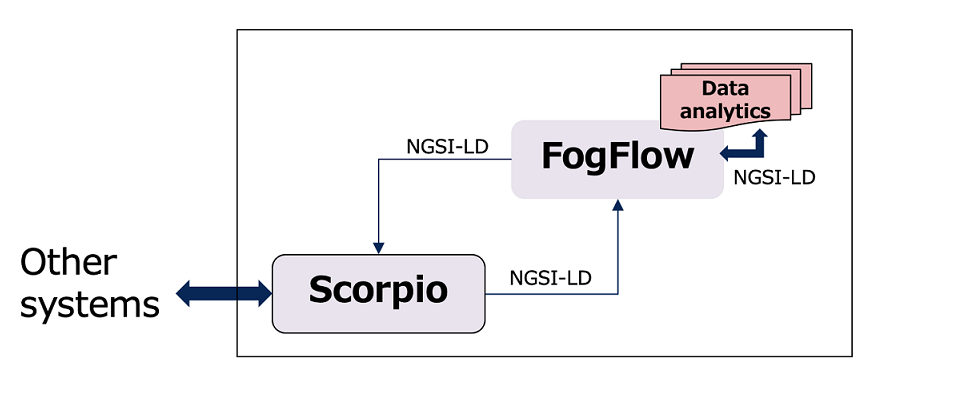
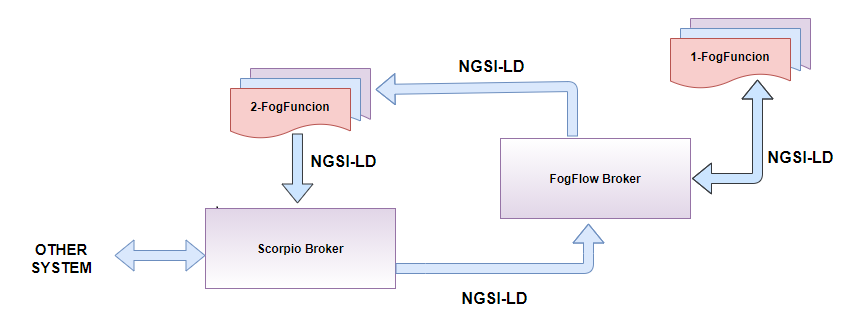
updare document for scorpio integration

Changed region(s): [[0.0, 0.0299, 0.9754, 0.9254], [0.0, 0.597, 0.1219, 0.6866]]

diff --git a/doc/en/source/scorpioIntegration.rst b/doc/en/source/scorpioIntegration.rst
@@ -14,10 +14,18 @@ Integration steps
 
 **Pre-Requisites:**
 
-* Fogflow should be up and running with atleast one node.
+* FogFlow should be up and running with atleast one node.
 * Scorpio Broker should be up and running.
-* Create and trigger NGSI-LD task (`See Document`_).
+* Create and trigger topology of two FogFunction (`See Document`_).
+* Create 1-FogFunction that publish update on FogFlow Broker (`Use template`_).
+* Create 2-FogFunction that publish update on Scorpio Broker (`Use operator`_).
+
 .. _`See Document`: https://fogflow.readthedocs.io/en/latest/intent_based_program.html.
+
+.. _`Use template`: https://github.com/smartfog/fogflow/tree/development/application/template/NGSILD/python.
+
+.. _`Use operator`: https://github.com/smartfog/fogflow/tree/development/application/operator/NGSI-LD-operator/NGSILDDemo.
+
 
 **There are two type of Integration**
 
@@ -33,9 +41,9 @@ Integration steps
 
     curl -iX POST \
     'http://<Scorpio Broker>/ngsi-ld/v1/subscriptions/' \
-      -H 'Content-Type: application/ld+json' \
+      -H 'Content-Type: application/json' \
       -H 'Accept: application/ld+json' \
-      -H 'Link: <{{link}}>; rel="https://uri.etsi.org/ngsi-ld/v1/ngsi-ld-core-context.jsonld"; type="application/ld+json"' \
+      -H 'Link: {{https://json-ld.org/contexts/person.jsonld}}; rel="https://uri.etsi.org/ngsi-ld/v1/ngsi-ld-core-context.jsonld"; type="application/ld+json"' \
       -d '
       {
          "type": "Subscription",
@@ -60,9 +68,9 @@ Integration steps
 
      curl -iX POST \
     'http://<Scorpio Broker>/ngsi-ld/v1/entities/' \
-     -H 'Content-Type: application/ld+json' \
+     -H 'Content-Type: application/json' \
      -H 'Accept: application/ld+json' \
-     -H 'Link: <{{link}}>; rel="https://uri.etsi.org/ngsi-ld/v1/ngsi-ld-core-context.jsonld"; type="application/ld+json"' \
+     -H 'Link: {{https://json-ld.org/contexts/person.jsonld}}; rel="https://uri.etsi.org/ngsi-ld/v1/ngsi-ld-core-context.jsonld"; type="application/ld+json"' \
     -d '
         {
          "id": "urn:ngsi-ld:Vehicle:A13",
@@ -79,7 +87,8 @@ Integration steps
                     "providedBy": {
                         "type": "Relationship",
                         "object": "urn:ngsi-ld:Person:Bob"
-                     },
+                     	},
+		}
         "location": {
                 "type": "GeoProperty",
                 "value": {
@@ -87,7 +96,7 @@ Integration steps
                         "coordinates": [-8.5, 41.2]
                 }
         }
-}'
+  }'
 
     
     
@@ -97,46 +106,23 @@ Integration steps
 
     curl -iX PATCH \
     'http://<Scorpio Broker>/ngsi-ld/v1/entities/urn:ngsi-ld:Vehicle:A13/attrs' \
-      -H 'Content-Type: application/ld+json' \
+      -H 'Content-Type: application/json' \
       -H 'Accept: application/ld+json' \
-      -H 'Link: <{{link}}>; rel="https://uri.etsi.org/ngsi-ld/v1/ngsi-ld-core-context.jsonld"; type="application/ld+json"' \
+      -H 'Link: {{https://json-ld.org/contexts/person.jsonld}}; rel="https://uri.etsi.org/ngsi-ld/v1/ngsi-ld-core-context.jsonld"; type="application/ld+json"' \
       -d '
      {
 	"brandName": {
 		"type": "Property",
-        "value" : "BM2"
-	}
-}'
+        	"value" : "BM2"
+      		}
+     }'
 
 **Type 2**
 
-* FogFlow task will publish update on the FogFlow broker.
-* Scorpio broker will subscribe to the FogFlow broker to get the notification form FogFlow broker.
+* 1-FogFlow task will publish update on the FogFlow broker.
+* FogFlow broker will send the notification to 2-FogFunction task.
+* 2-FogFunction will convert the notification into scorpio update and send the update to scorpio broker.
 
-.. code-block:: console
-
-    curl -iX POST \
-    'http://<FogFlow Broker>/ngsi-ld/v1/subscriptions/' \
-      -H 'Content-Type: application/ld+json' \
-      -H 'Accept: application/ld+json' \
-      -H 'Link: <{{link}}>; rel="https://uri.etsi.org/ngsi-ld/v1/ngsi-ld-core-context.jsonld"; type="application/ld+json"' \
-      -d '
-      {
-         "type": "Subscription",
-         "entities": [{
-                "id" : "urn:ngsi-ld:Vehicle:A13",
-                "type": "Vehicle"
-           }],
-          "watchedAttributes": [],
-          "notification": {
-                 "attributes": [],
-                  "format": "keyValues",
-                 "endpoint": {
-                        "uri": "http://<Scorpio Broker>/notifyContext",
-                        "accept": "application/json"
-                }
-         }
-    }'
 
 
 Using NGSI-LD Adapter
